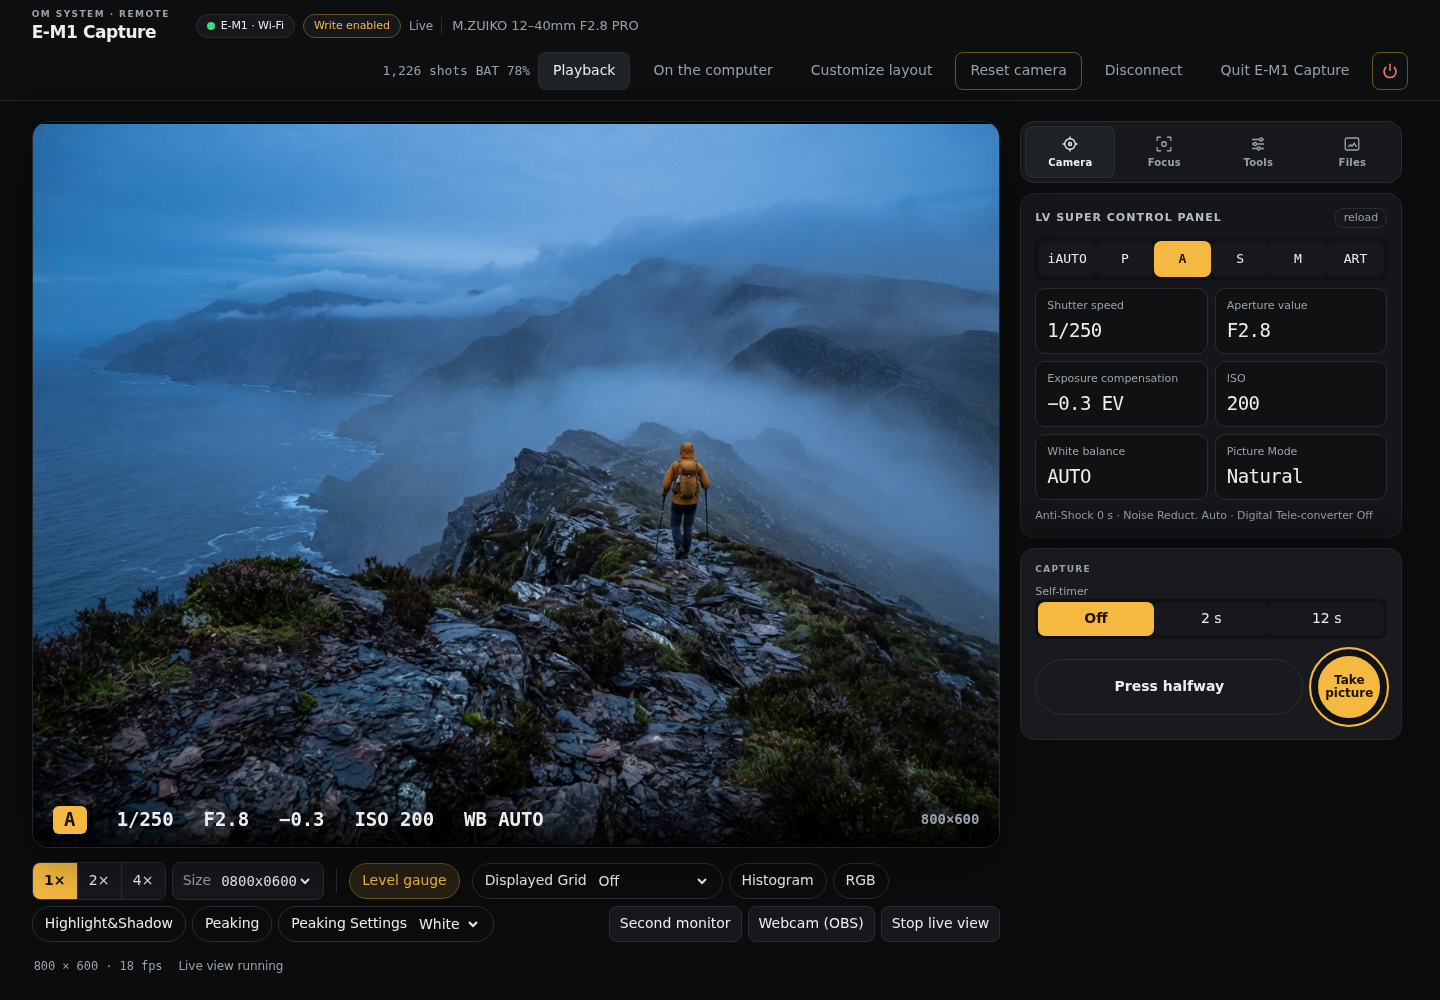
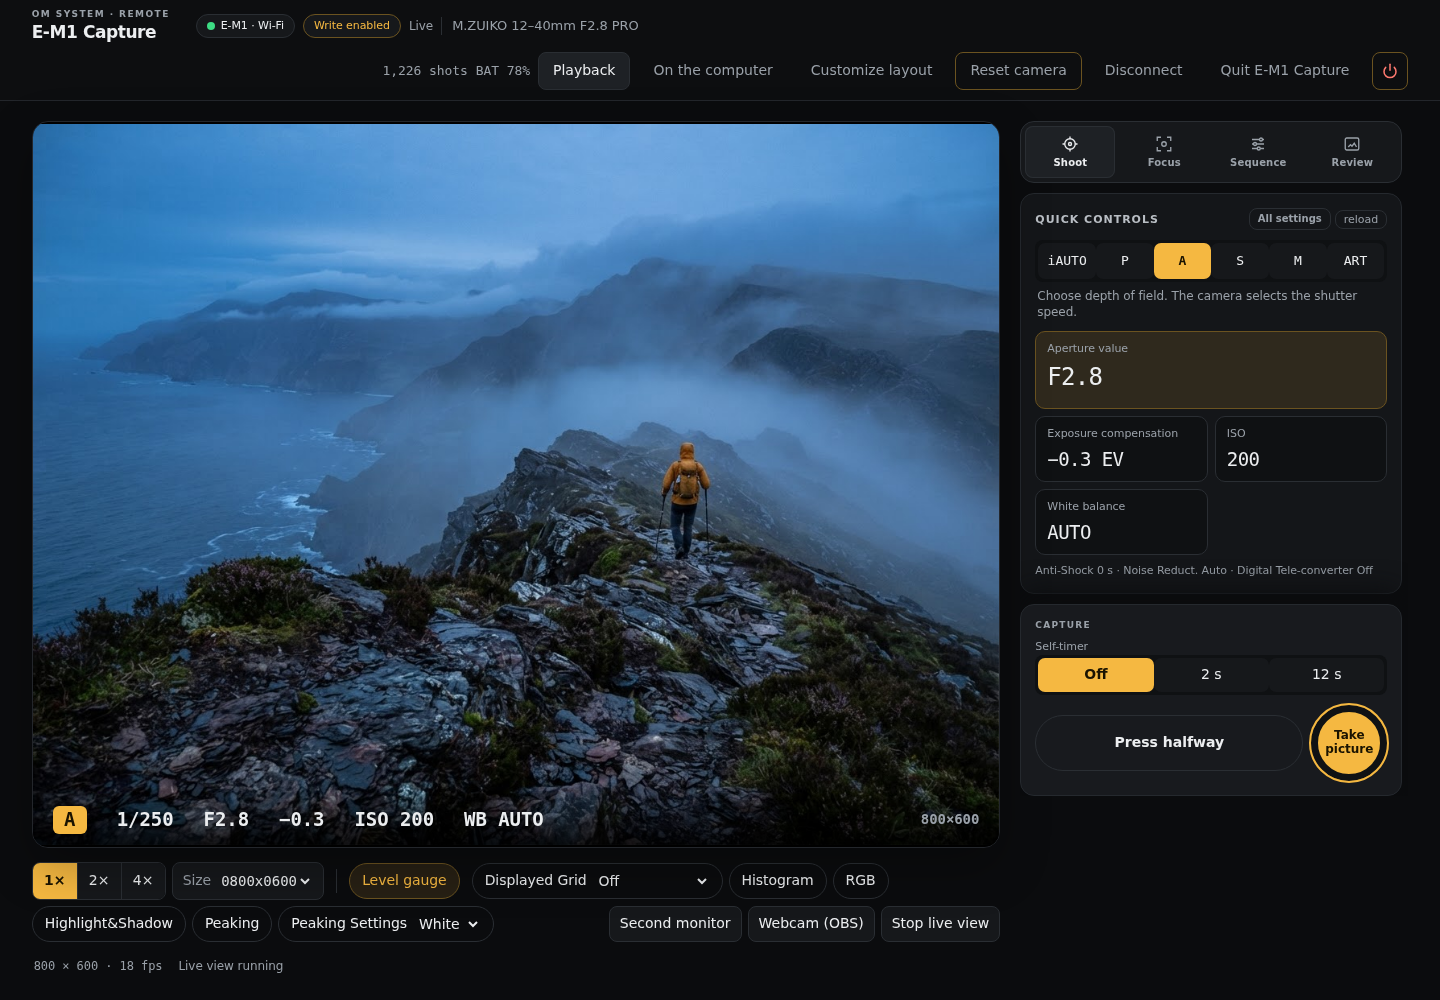
Simplify controls around camera workflows
Prioritize mode-dependent exposure controls from the E-M1 manual, add progressive disclosure for secondary settings, rename task navigation, and refresh responsive previews.

Figma-Prompt-ID: 120
Figma-Session-ID: 9e63d428-c352-4131-b44d-27a1b17f3922

diff --git a/omcap/web/index.html b/omcap/web/index.html
@@ -135,6 +135,13 @@ button:disabled{color:var(--disabled);opacity:.6;cursor:not-allowed}
 #props label.ro strong{font-family:var(--font-value);font-size:18px;font-weight:500;color:var(--text)}
 #props label.ro{grid-column:1/-1;border-style:dashed;border-color:var(--line-strong)}
 #props label.wide{grid-column:1/-1}
+#props:not(.expanded) label.advanced{display:none!important}
+#props label.quick-primary{border-color:var(--accent-line);background:var(--accent-soft)}
+#props[data-primary-count="1"] label.quick-primary{grid-column:1/-1;min-height:78px}
+#props[data-primary-count="1"] label.quick-primary select{font-size:24px}
+#workflowHint{min-height:34px;margin:-2px 0 9px;padding:0 2px;color:var(--muted);font-size:var(--fs-meta);line-height:1.35}
+.section-actions{display:flex;align-items:center;gap:4px}
+#propsMore{font-size:10px;padding:3px 8px;background:transparent;color:var(--muted);white-space:nowrap}
 #modeBox{margin-bottom:var(--s2)}
 #modeBox .seg{flex-wrap:wrap}
 #modeBox .seg button{flex:1;width:auto;min-width:0;padding:0 2px;height:38px;font-family:var(--font-value);font-size:13px}
@@ -517,14 +524,15 @@ section h2{margin-bottom:10px;color:#b9bec4;font-size:var(--fs-label);font-weigh
 </div>
 <div id="panels" data-pane="camera">
   <nav id="panelNav" aria-label="Control groups">
-    <button type="button" data-panel-nav="camera" aria-selected="true"><svg viewBox="0 0 24 24" fill="none" stroke="currentColor" stroke-width="1.8" aria-hidden="true"><circle cx="12" cy="12" r="7"/><circle cx="12" cy="12" r="2"/><path d="M12 2v3M12 19v3M2 12h3M19 12h3"/></svg><span data-i18n="nav.camera">Camera</span></button>
+    <button type="button" data-panel-nav="camera" aria-selected="true"><svg viewBox="0 0 24 24" fill="none" stroke="currentColor" stroke-width="1.8" aria-hidden="true"><circle cx="12" cy="12" r="7"/><circle cx="12" cy="12" r="2"/><path d="M12 2v3M12 19v3M2 12h3M19 12h3"/></svg><span data-i18n="nav.camera">Shoot</span></button>
     <button type="button" data-panel-nav="focus" aria-selected="false"><svg viewBox="0 0 24 24" fill="none" stroke="currentColor" stroke-width="1.8" aria-hidden="true"><path d="M8 3H3v5M16 3h5v5M8 21H3v-5M16 21h5v-5"/><circle cx="12" cy="12" r="3"/></svg><span data-i18n="nav.focus">Focus</span></button>
-    <button type="button" data-panel-nav="tools" aria-selected="false"><svg viewBox="0 0 24 24" fill="none" stroke="currentColor" stroke-width="1.8" aria-hidden="true"><path d="M4 6h10M18 6h2M4 12h2M10 12h10M4 18h7M15 18h5"/><circle cx="16" cy="6" r="2"/><circle cx="8" cy="12" r="2"/><circle cx="13" cy="18" r="2"/></svg><span data-i18n="nav.tools">Tools</span></button>
-    <button type="button" data-panel-nav="files" aria-selected="false"><svg viewBox="0 0 24 24" fill="none" stroke="currentColor" stroke-width="1.8" aria-hidden="true"><rect x="3" y="4" width="18" height="16" rx="2"/><path d="m7 16 3-3 2 2 3-4 3 5"/></svg><span data-i18n="nav.files">Files</span></button>
+    <button type="button" data-panel-nav="tools" aria-selected="false"><svg viewBox="0 0 24 24" fill="none" stroke="currentColor" stroke-width="1.8" aria-hidden="true"><path d="M4 6h10M18 6h2M4 12h2M10 12h10M4 18h7M15 18h5"/><circle cx="16" cy="6" r="2"/><circle cx="8" cy="12" r="2"/><circle cx="13" cy="18" r="2"/></svg><span data-i18n="nav.tools">Sequence</span></button>
+    <button type="button" data-panel-nav="files" aria-selected="false"><svg viewBox="0 0 24 24" fill="none" stroke="currentColor" stroke-width="1.8" aria-hidden="true"><rect x="3" y="4" width="18" height="16" rx="2"/><path d="m7 16 3-3 2 2 3-4 3 5"/></svg><span data-i18n="nav.files">Review</span></button>
   </nav>
   <section data-id="scp" data-pane="camera" data-label="LV super control panel" data-i18n-label="panel.scp">
-    <h2 class="hrow"><span data-i18n="panel.scp">LV super control panel</span> <button id="propsReload" class="mini" data-i18n="scp.reload">reload</button></h2>
+    <h2 class="hrow"><span data-i18n="quick.title">Quick controls</span><span class="section-actions"><button id="propsMore" type="button" hidden data-i18n="quick.all">All settings</button><button id="propsReload" class="mini" data-i18n="scp.reload">reload</button></span></h2>
     <div id="modeBox"></div>
+    <div id="workflowHint"></div>
     <div id="props"></div>
     <div id="roProps" hidden></div>
   </section>
@@ -1021,10 +1029,21 @@ const I18N={en:{
   "layout.settings": "Settings",
   "layout.close": "Close",
   "layout.reset": "Reset",
-  "nav.camera": "Camera",
+  "nav.camera": "Shoot",
   "nav.focus": "Focus",
-  "nav.tools": "Tools",
-  "nav.files": "Files"
+  "nav.tools": "Sequence",
+  "nav.files": "Review",
+  "quick.title": "Quick controls",
+  "quick.all": "All settings",
+  "quick.less": "Quick only",
+  "quick.hint.iAuto": "Frame, focus and shoot. The camera chooses the exposure.",
+  "quick.hint.P": "Set brightness. The camera balances shutter speed and aperture.",
+  "quick.hint.A": "Choose depth of field. The camera selects the shutter speed.",
+  "quick.hint.S": "Choose motion. The camera selects the aperture.",
+  "quick.hint.M": "Choose shutter speed and aperture directly.",
+  "quick.hint.ART": "Choose the look first, then fine-tune brightness.",
+  "quick.hint.movie": "Choose movie exposure before recording. Values lock while recording.",
+  "quick.hint.default": "Only controls available in this shooting mode are shown."
 }};
 const LANG=(()=>{try{const l=localStorage.getItem('omcap.lang');if(l&&I18N[l])return l}catch{}
   const n=(navigator.language||'en').slice(0,2);return I18N[n]?n:'en'})();
@@ -1311,6 +1330,33 @@ function renderModeBox(p){
   }
   box.append(seg);
 }
+let showAllSettings=false;
+function workflowFor(p){
+  const mode=p.takemode&&p.takemode.value;
+  const movieMode=mode==='movie'&&p.exposemovie&&p.exposemovie.value;
+  let primary=[];
+  if(mode==='movie') primary=['exposemovie'];
+  else if(mode==='A') primary=['focalvalue'];
+  else if(mode==='S') primary=['shutspeedvalue'];
+  else if(mode==='M') primary=['shutspeedvalue','focalvalue'];
+  else if(mode==='ART') primary=['artfilter'];
+  else if(['P','S','A'].includes(mode)) primary=['expcomp'];
+  const quick=[...primary,'isospeedvalue','wbvalue'];
+  if(['P','A','S','ART'].includes(mode)||['P','A','S'].includes(movieMode)) quick.push('expcomp');
+  if(movieMode==='A') quick.push('focalvalue');
+  if(movieMode==='S') quick.push('shutspeedvalue');
+  if(movieMode==='M') quick.push('shutspeedvalue','focalvalue');
+  if(mode==='iAuto') quick.push('drivemode');
+  return{mode,primary,quick:[...new Set(quick)]};
+}
+function syncSettingsToggle(){
+  const box=$('#props'),button=$('#propsMore'),hasAdvanced=!!box.querySelector('label.advanced');
+  box.classList.toggle('expanded',showAllSettings);
+  button.hidden=!hasAdvanced;
+  button.textContent=tr(showAllSettings?'quick.less':'quick.all');
+  button.setAttribute('aria-expanded',String(showAllSettings));
+}
+$('#propsMore').onclick=()=>{showAllSettings=!showAllSettings;syncSettingsToggle()};
 function renderProps(){
   const p=lastProps,box=$('#props');
   if(!p) return;
@@ -1319,6 +1365,8 @@ function renderProps(){
   renderRo();
   box.innerHTML='';
   renderModeBox(p);
+  const workflow=workflowFor(p);
+  $('#workflowHint').textContent=tr('quick.hint.'+workflow.mode,null,tr('quick.hint.default'));
   for(const [k,f] of Object.entries(FEATURES)){
     const v=p[k];
     if(k==='takemode') continue; // own control above the tiles (renderModeBox)
@@ -1326,6 +1374,9 @@ function renderProps(){
     // Value names: table (val.<setting>.<value>) before the camera names and from FEATURES
     const name=o=>tr('val.'+k+'.'+o,null,'')||(v.names&&v.names[o])||(f.names&&f.names[o])||o;
     const l=document.createElement('label'); l.textContent=tr('prop.'+k); l.dataset.id=k; l.dataset.label=tr('prop.'+k);
+    l.classList.toggle('quick-primary',workflow.primary.includes(k));
+    l.classList.toggle('advanced',!workflow.quick.includes(k));
+    l.dataset.quickOrder=String((workflow.quick.indexOf(k)+1||100)+100);
     const sel=document.createElement('select'); sel.disabled=!canWrite;
     const opts=v.enum.filter(o=>!(f.skip&&f.skip(o,p)));
     if(!opts.includes(v.value)) opts.unshift(v.value);
@@ -1339,6 +1390,10 @@ function renderProps(){
     l.append(sel); box.append(l);
   }
   applyLayout();
+  const primaryCount=box.querySelectorAll('label.quick-primary:not([hidden])').length;
+  box.dataset.primaryCount=String(primaryCount);
+  box.querySelectorAll('label[data-quick-order]').forEach(l=>{l.style.order=l.dataset.quickOrder});
+  syncSettingsToggle();
   applyContext();
 }
 /* Show and hide shooting options depending on the mode (manual p.41, 85) */

diff --git a/design/DESIGN.md b/design/DESIGN.md
@@ -21,6 +21,26 @@ shooting values, autofocus and shutter release.
 Typography now has explicit display, title, heading, body, metadata, label and camera-value levels.
 Camera values retain IBM Plex Mono; navigation and explanatory text retain Inter/system UI.
 
+### Manual-led fast workflow
+
+The E-M1 manual establishes a mode-dependent control hierarchy rather than a flat settings grid:
+
+- **P:** the camera balances shutter and aperture; exposure compensation is the immediate adjustment
+  (manual pp. 38, 51).
+- **A:** aperture is primary and the camera selects shutter speed (manual p. 39).
+- **S:** shutter speed is primary and the camera selects aperture (manual p. 40).
+- **M:** shutter speed and aperture are both primary; exposure compensation is unavailable
+  (manual pp. 41, 51).
+- **Movie:** P/A/S/M movie exposure is selected before recording; exposure values cannot be changed
+  while recording (manual p. 71).
+- **Focus:** the AF target is selected directly in the frame; AF Area changes the target-selection
+  strategy rather than the shooting workflow (manual pp. 54–56).
+
+The interface therefore shows only the mode-relevant exposure controls plus ISO and white balance by
+default. Drive, color, metering, record mode and other Super Control Panel settings remain available
+behind **All settings**. Navigation uses the user tasks **Shoot, Focus, Sequence, Review** rather than
+camera implementation categories.
+
 ## Principles
 
 1. **Live view is the hero.** It takes the left/centre of the screen at 4:3; panels sit beside it on the
